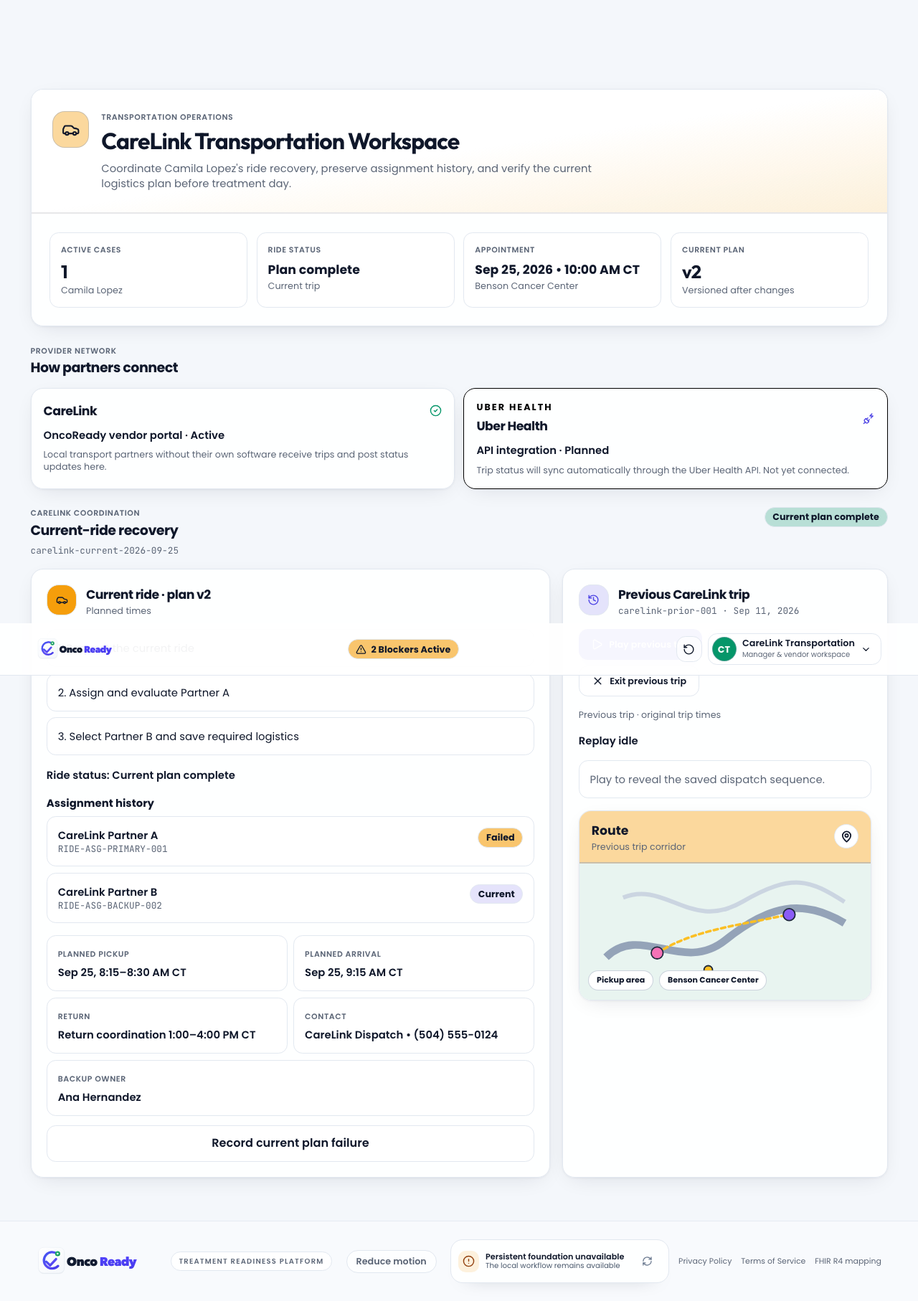
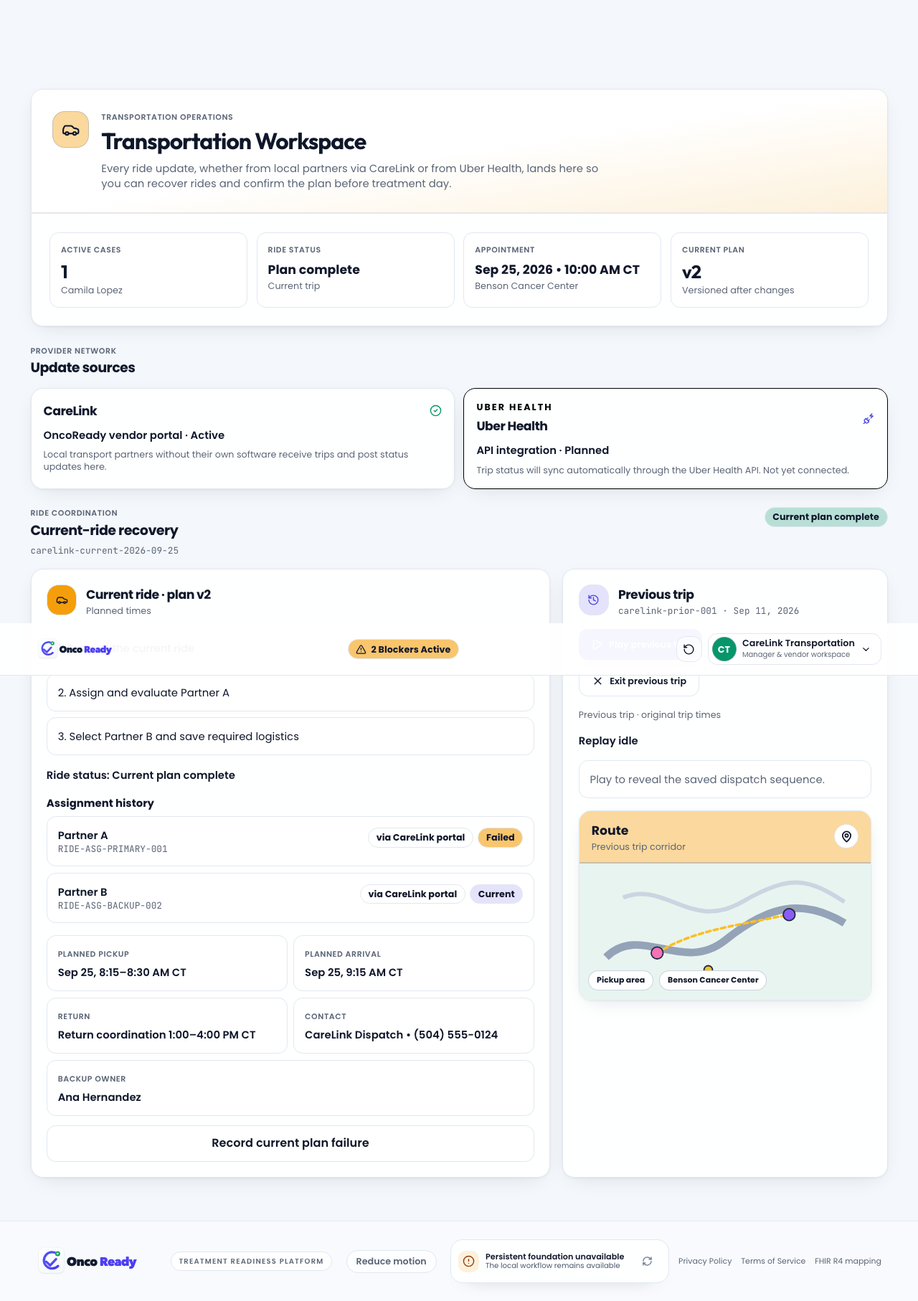
feat(transport): make Transportation Workspace vendor-neutral
Rename the page to "Transportation Workspace" and present it as the
navigator's hub for ride updates from every source. CareLink now appears
only as the update channel (assign buttons, "via CareLink portal" tags,
"Update sources"), with generic ride coordination labels elsewhere.
Update tests, screenshots and POLISH-001.

diff --git a/frontend/tests/e2e.spec.ts b/frontend/tests/e2e.spec.ts
@@ -197,20 +197,20 @@ test.describe('OncoReady UI-001 product experience', () => {
     await page.getByLabel('Password').fill('1234');
     await page.getByRole('button', { name: 'Sign in', exact: true }).last().click();
 
-    await expect(page.getByRole('heading', { name: 'CareLink Transportation Workspace' })).toBeVisible();
+    await expect(page.getByRole('heading', { name: 'Transportation Workspace' })).toBeVisible();
     await expect(page.getByRole('heading', { name: 'CareLink', exact: true })).toBeVisible();
     await expect(page.getByRole('heading', { name: 'Uber Health', exact: true })).toBeVisible();
     await expect(page.getByText('API integration · Planned')).toBeVisible();
     await expect(page.getByRole('img', { name: 'Uber Health wordmark' })).toBeVisible();
 
     await page.getByRole('button', { name: /Request ride/i }).click();
-    await page.getByRole('button', { name: /Assign CareLink Partner A/i }).click();
+    await page.getByRole('button', { name: /Assign Partner A · via CareLink/i }).click();
     await page.getByRole('button', { name: /Record primary unavailable/i }).click();
-    await page.getByRole('button', { name: /Select CareLink Partner B/i }).click();
+    await page.getByRole('button', { name: /Select Partner B · via CareLink/i }).click();
     await page.getByRole('button', { name: /Save recovered logistics/i }).click();
 
-    await expect(page.getByText('CareLink Partner A')).toBeVisible();
-    await expect(page.getByText('CareLink Partner B')).toBeVisible();
+    await expect(page.getByText('Partner A', { exact: true })).toBeVisible();
+    await expect(page.getByText('Partner B', { exact: true })).toBeVisible();
     await expect(page.getByText(/Current ride · plan v2/i)).toBeVisible();
     await expect(page.getByText(/Return coordination 1:00–4:00 PM CT/i)).toBeVisible();
     expect((await page.locator('body').innerText()).toLowerCase()).not.toContain('not feeling well');
@@ -219,7 +219,7 @@ test.describe('OncoReady UI-001 product experience', () => {
 
     await page.screenshot({ path: 'artifacts/RIDE-001-transport-desktop.png', fullPage: true });
     await page.setViewportSize({ width: 375, height: 812 });
-    await expect(page.getByRole('heading', { name: 'CareLink Transportation Workspace' })).toBeVisible();
+    await expect(page.getByRole('heading', { name: 'Transportation Workspace' })).toBeVisible();
     expect(await page.evaluate(() => document.documentElement.scrollWidth <= document.documentElement.clientWidth + 1)).toBe(true);
     await page.screenshot({ path: 'artifacts/RIDE-001-transport-mobile.png', fullPage: true });
   });
@@ -262,9 +262,9 @@ test.describe('OncoReady UI-001 product experience', () => {
     await page.getByRole('button', { name: 'Exceptions', exact: true }).click();
     await page.getByRole('button', { name: /Open Case Workspace/i }).click();
     await page.getByRole('button', { name: /Request ride/i }).click();
-    await page.getByRole('button', { name: /Assign CareLink Partner A/i }).click();
+    await page.getByRole('button', { name: /Assign Partner A · via CareLink/i }).click();
     await page.getByRole('button', { name: /Record primary unavailable/i }).click();
-    await page.getByRole('button', { name: /Select CareLink Partner B/i }).click();
+    await page.getByRole('button', { name: /Select Partner B · via CareLink/i }).click();
     await page.getByRole('button', { name: /Save recovered logistics/i }).click();
 
     await page.getByRole('button', { name: /Marcus Vance, MSW/i }).click();
@@ -397,9 +397,9 @@ test('presenter rehearsal follows the prepared story without live delivery', asy
   await page.getByRole('button', { name: 'Exit previous trip' }).click();
 
   await page.getByRole('button', { name: /Request ride/i }).click();
-  await page.getByRole('button', { name: /Assign CareLink Partner A/i }).click();
+  await page.getByRole('button', { name: /Assign Partner A · via CareLink/i }).click();
   await page.getByRole('button', { name: /Record primary unavailable/i }).click();
-  await page.getByRole('button', { name: /Select CareLink Partner B/i }).click();
+  await page.getByRole('button', { name: /Select Partner B · via CareLink/i }).click();
   await page.getByRole('button', { name: /Save recovered logistics/i }).click();
   await page.getByRole('button', { name: /Marcus Vance, MSW/i }).click();
   await page.getByText(/Caregiver Portal \(Ana Hernandez\)/i).click();

diff --git a/frontend/src/components/StaffCaseWorkspace.tsx b/frontend/src/components/StaffCaseWorkspace.tsx
@@ -121,7 +121,7 @@ export const StaffCaseWorkspace: React.FC<Props> = ({ state, workspaceRole, onBa
       <div className="space-y-5"><section className="card-sticker p-5 sm:p-6 space-y-4"><div><p className="label-caps text-muted-fg mb-1">Care plan</p><h2 className="font-heading font-bold flex items-center gap-2"><FlaskConical className="w-4 h-4 text-accent" />Pre-infusion diagnostic labs</h2></div><div className="overflow-x-auto"><table className="w-full text-left text-sm"><thead><tr className="border-b-2 border-ink/10">{['Test name','Result','Reference range','Status','Collection'].map((h) => <th key={h} className="py-2.5 label-caps text-muted-fg">{h}</th>)}</tr></thead><tbody className="divide-y divide-ink/10">{state.labs.map((lab) => <tr key={lab.name}><td className="py-3 font-heading font-bold">{lab.name}</td><td className="py-3 font-mono">{lab.value} {lab.unit}</td><td className="py-3 text-muted-fg font-mono text-xs">{lab.referenceRange}</td><td className="py-3"><span className={`chip ${lab.status === 'NORMAL' ? 'chip-mint' : 'chip-sun'}`}>{lab.status}</span></td><td className="py-3 text-xs text-muted-fg">{lab.collectedAt}</td></tr>)}</tbody></table></div></section><section className="card-sticker p-5 sm:p-6 space-y-4"><p className="label-caps text-muted-fg">{hasCapturedVitals ? 'OncoReady care plan \u00b7 Hospital Epic Sandbox' : 'OncoReady care plan'}</p><h2 className="font-heading font-bold flex items-center gap-2"><HeartPulse className="w-4 h-4 text-pop" />Vital signs &amp; clinical monitoring</h2><div className="grid grid-cols-1 sm:grid-cols-3 gap-3">{mergedVitals.map((vital) => <div key={vital.key} className="metric-tile"><div className="label-caps text-muted-fg">{vital.name}</div><div className="font-display text-xl font-extrabold mt-1">{vital.value}</div><div className="text-[11px] text-muted-fg">{vital.collectedAt ? formatEpicSourceDate(vital.collectedAt) ?? vital.collectedAt : 'Collection time not recorded'}</div>{vital.source === 'EPIC_SANDBOX' ? <span className="chip mt-2 inline-block">Epic Sandbox</span> : null}</div>)}</div>{mergedVitals.length === 0 ? <p className="text-sm text-muted-fg">No vital signs recorded.</p> : null}</section></div>
     ) :
       !clinical || !transport ? <section className="card-sticker p-6 text-center space-y-3"><AlertTriangle className="w-6 h-6 mx-auto text-accent" /><h2 className="font-heading font-bold">Patient reply has not opened work yet</h2><p className="text-sm text-muted-fg">Clinical and transportation work opens when Camila’s readiness reply arrives.</p></section> :
-      <div className="space-y-3"><p className="label-caps text-muted-fg">{workspaceRole === 'CARE_NAVIGATOR' ? 'CareLink coordination workflow' : 'Clinical readiness workflow'}</p><div className={workspaceRole === 'CARE_TEAM' ? 'grid grid-cols-1 lg:grid-cols-2 gap-5' : 'space-y-5'}>
+      <div className="space-y-3"><p className="label-caps text-muted-fg">{workspaceRole === 'CARE_NAVIGATOR' ? 'Transportation coordination workflow' : 'Clinical readiness workflow'}</p><div className={workspaceRole === 'CARE_TEAM' ? 'grid grid-cols-1 lg:grid-cols-2 gap-5' : 'space-y-5'}>
         {workspaceRole === 'CARE_TEAM' && <section className={`card-sticker p-5 space-y-4 ${clinicalDone ? 'bg-mint/10' : ''}`}>
           <div className="flex items-start justify-between gap-3"><div className="flex gap-2"><span className="icon-bubble w-10 h-10 bg-accent text-white"><Stethoscope className="w-4 h-4" /></span><div><h2 className="font-heading font-bold">Clinical contact</h2><p className="text-xs text-muted-fg">{clinical.id}</p></div></div><span className={`chip ${clinicalDone ? 'chip-mint' : 'chip-sun'}`}>{clinicalDone ? 'Human disposition recorded' : ownershipAccepted ? 'Ownership accepted' : 'Contact required'}</span></div>
           <TaskMeta owner={clinical.owner.name} next={clinical.nextAction} due={clinical.dueTime} waiting={clinical.waitingReason} />

diff --git a/frontend/src/components/CareLinkRidePanel.tsx b/frontend/src/components/CareLinkRidePanel.tsx
@@ -60,7 +60,7 @@ export const CareLinkRidePanel: React.FC<CareLinkRidePanelProps> = ({
     <section className="space-y-4" aria-labelledby="carelink-recovery-title">
       <div className="flex flex-wrap items-start justify-between gap-3">
         <div>
-          <p className="label-caps text-muted-fg">CareLink coordination</p>
+          <p className="label-caps text-muted-fg">Ride coordination</p>
           <h2 id="carelink-recovery-title" className="font-heading font-bold text-lg">Current-ride recovery</h2>
           <p className="text-xs text-muted-fg font-mono mt-1">{state.ride.currentTripId}</p>
         </div>
@@ -88,11 +88,11 @@ export const CareLinkRidePanel: React.FC<CareLinkRidePanelProps> = ({
           </div>
 
           {current === 'OPEN' && <button type="button" className="btn-candy w-full" onClick={() => onAction({ type: 'REQUEST_CURRENT_RIDE' })}>Request ride</button>}
-          {current === 'REQUESTED' && <button type="button" className="btn-candy w-full" onClick={() => onAction({ type: 'ASSIGN_PRIMARY_RIDE' })}>Assign CareLink Partner A</button>}
+          {current === 'REQUESTED' && <button type="button" className="btn-candy w-full" onClick={() => onAction({ type: 'ASSIGN_PRIMARY_RIDE' })}>Assign Partner A · via CareLink</button>}
           {current === 'PRIMARY_ASSIGNED' && <button type="button" className="btn-candy w-full" onClick={() => onAction({ type: 'FAIL_PRIMARY_RIDE' })}>Record primary unavailable</button>}
           {current === 'PRIMARY_FAILED' && (
             <div className="grid sm:grid-cols-2 gap-2">
-              <button type="button" className="btn-candy" onClick={() => onAction({ type: 'ASSIGN_BACKUP_RIDE' })}>Select CareLink Partner B</button>
+              <button type="button" className="btn-candy" onClick={() => onAction({ type: 'ASSIGN_BACKUP_RIDE' })}>Select Partner B · via CareLink</button>
               <button type="button" className="btn-ghost" onClick={() => onAction({ type: 'MARK_NO_RIDE_OPTION' })}>No option available</button>
             </div>
           )}
@@ -146,7 +146,10 @@ export const CareLinkRidePanel: React.FC<CareLinkRidePanelProps> = ({
                 {state.ride.assignments.map((assignment) => (
                   <li key={assignment.id} className="metric-tile text-sm flex flex-wrap items-start justify-between gap-2">
                     <div><div className="font-semibold">{assignment.providerName}</div><div className="font-mono text-xs text-muted-fg">{assignment.id}</div></div>
-                    <span className={`chip ${assignment.status === 'CURRENT' ? 'chip-accent' : 'chip-sun'}`}>{assignment.status === 'CURRENT' ? 'Current' : 'Failed'}</span>
+                    <div className="flex flex-wrap gap-1.5">
+                      <span className="chip">via CareLink portal</span>
+                      <span className={`chip ${assignment.status === 'CURRENT' ? 'chip-accent' : 'chip-sun'}`}>{assignment.status === 'CURRENT' ? 'Current' : 'Failed'}</span>
+                    </div>
                   </li>
                 ))}
               </ul>
@@ -171,7 +174,7 @@ export const CareLinkRidePanel: React.FC<CareLinkRidePanelProps> = ({
           <div className="flex items-start gap-3">
             <span className="icon-bubble w-10 h-10 bg-accent/15 text-accent shrink-0"><History className="w-4 h-4" aria-hidden="true" /></span>
             <div>
-              <h3 id="historical-replay-title" className="font-heading font-bold">Previous CareLink trip</h3>
+              <h3 id="historical-replay-title" className="font-heading font-bold">Previous trip</h3>
               <p className="font-mono text-xs text-muted-fg"><span>carelink-prior-001</span><span aria-hidden="true"> · </span><span>Sep 11, 2026</span></p>
             </div>
           </div>

diff --git a/frontend/src/state/workflowState.ts b/frontend/src/state/workflowState.ts
@@ -503,7 +503,7 @@ export function workflowReducer(state: WorkflowState, action: WorkflowAction): W
         ...state,
         ride: { ...state.ride, currentStatus: 'REQUESTED' },
         tasks: state.tasks.map((item) => item.type === 'TRANSPORTATION_NAVIGATION'
-          ? { ...item, nextAction: 'Assign CareLink Partner A', waitingReason: 'Provider assignment', transportDetails: { ...item.transportDetails!, dispatchStatus: 'DISPATCH_IN_PROGRESS' } }
+          ? { ...item, nextAction: 'Assign Partner A via CareLink', waitingReason: 'Provider assignment', transportDetails: { ...item.transportDetails!, dispatchStatus: 'DISPATCH_IN_PROGRESS' } }
           : item),
       };
       next = { ...next, auditEvents: addEvent(next, { id: 'EVT-RIDE-REQUESTED', timestamp: 'Sep 24, 2026 • 10:32 AM CT', actor: 'Marcus Vance, MSW', actorRole: 'NAVIGATOR', action: 'Ride requested', description: 'Current trip carelink-current-2026-09-25 opened.' }) };
@@ -513,7 +513,7 @@ export function workflowReducer(state: WorkflowState, action: WorkflowAction): W
       if (!isRoleMutationAllowed(state, 'CARE_NAVIGATOR') || state.ride.currentStatus !== 'REQUESTED') return state;
       const assignment: RideAssignment = {
         id: 'RIDE-ASG-PRIMARY-001',
-        providerName: 'CareLink Partner A',
+        providerName: 'Partner A',
         providerKind: 'FICTIONAL',
         status: 'CURRENT',
         assignedAt: 'Sep 24, 2026 • 10:34 AM CT',
@@ -524,7 +524,7 @@ export function workflowReducer(state: WorkflowState, action: WorkflowAction): W
         ...state,
         ride: { ...state.ride, currentStatus: 'PRIMARY_ASSIGNED', assignments: [...state.ride.assignments, assignment] },
         tasks: state.tasks.map((item) => item.type === 'TRANSPORTATION_NAVIGATION'
-          ? { ...item, nextAction: 'Monitor primary assignment', waitingReason: 'CareLink Partner A', transportDetails: { ...item.transportDetails!, dispatchStatus: 'DISPATCH_IN_PROGRESS', vehicleId: assignment.vehicleId, driverName: assignment.driverName } }
+          ? { ...item, nextAction: 'Monitor primary assignment', waitingReason: 'Partner A via CareLink', transportDetails: { ...item.transportDetails!, dispatchStatus: 'DISPATCH_IN_PROGRESS', vehicleId: assignment.vehicleId, driverName: assignment.driverName } }
           : item),
       };
       next = { ...next, auditEvents: addEvent(next, { id: 'EVT-RIDE-PRIMARY-ASSIGNED', timestamp: assignment.assignedAt, actor: 'Marcus Vance, MSW', actorRole: 'NAVIGATOR', action: 'Trip sent to Partner A via CareLink', description: 'Primary assignment RIDE-ASG-PRIMARY-001 is current.' }) };
@@ -537,7 +537,7 @@ export function workflowReducer(state: WorkflowState, action: WorkflowAction): W
       if (!isRoleMutationAllowed(state, 'CARE_NAVIGATOR') || state.ride.currentStatus !== 'PRIMARY_FAILED') return state;
       const assignment: RideAssignment = {
         id: 'RIDE-ASG-BACKUP-002',
-        providerName: 'CareLink Partner B',
+        providerName: 'Partner B',
         providerKind: 'FICTIONAL',
         status: 'CURRENT',
         assignedAt: 'Sep 24, 2026 • 10:49 AM CT',

diff --git a/frontend/tests/ride-ui.test.tsx b/frontend/tests/ride-ui.test.tsx
@@ -25,7 +25,7 @@ describe('RIDE-001 provider extensibility labels', () => {
   it('shows CareLink and a truthful non-connected Uber Health preview', () => {
     render(<TransportationHarness />);
 
-    expect(screen.getByRole('heading', { name: 'CareLink Transportation Workspace' })).toBeDefined();
+    expect(screen.getByRole('heading', { name: 'Transportation Workspace' })).toBeDefined();
     expect(screen.getByRole('heading', { name: 'CareLink' })).toBeDefined();
     expect(screen.getByText('OncoReady vendor portal · Active')).toBeDefined();
     expect(screen.getByRole('heading', { name: 'Uber Health' })).toBeDefined();
@@ -38,13 +38,13 @@ describe('RIDE-001 provider extensibility labels', () => {
     render(<RideHarness />);
 
     fireEvent.click(screen.getByRole('button', { name: 'Request ride' }));
-    fireEvent.click(screen.getByRole('button', { name: 'Assign CareLink Partner A' }));
+    fireEvent.click(screen.getByRole('button', { name: 'Assign Partner A · via CareLink' }));
     fireEvent.click(screen.getByRole('button', { name: 'Record primary unavailable' }));
 
-    expect(screen.getByText('CareLink Partner A')).toBeDefined();
+    expect(screen.getByText('Partner A')).toBeDefined();
     expect(screen.getByText('Failed')).toBeDefined();
 
-    fireEvent.click(screen.getByRole('button', { name: 'Select CareLink Partner B' }));
+    fireEvent.click(screen.getByRole('button', { name: 'Select Partner B · via CareLink' }));
     const contact = screen.getByLabelText('Logistics contact');
     fireEvent.change(contact, { target: { value: '' } });
 
@@ -56,7 +56,7 @@ describe('RIDE-001 provider extensibility labels', () => {
     fireEvent.click(save);
 
     expect(screen.getByText('Current plan complete')).toBeDefined();
-    expect(screen.getByText(/CareLink Partner B/)).toBeDefined();
+    expect(screen.getAllByText(/Partner B/)[0]).toBeDefined();
     expect(screen.getByText(/Sep 25, 8:15–8:30 AM CT/)).toBeDefined();
     expect(screen.getByText(/Return coordination 1:00–4:00 PM CT/)).toBeDefined();
   });

diff --git a/frontend/src/components/TransportationWorkspace.tsx b/frontend/src/components/TransportationWorkspace.tsx
@@ -40,9 +40,9 @@ export const TransportationWorkspace: React.FC<TransportationWorkspaceProps> = (
               </span>
               <div>
                 <p className="label-caps text-muted-fg">Transportation operations</p>
-                <Title id="transport-dashboard-title" className="font-display text-3xl font-extrabold mt-1">CareLink Transportation Workspace</Title>
+                <Title id="transport-dashboard-title" className="font-display text-3xl font-extrabold mt-1">Transportation Workspace</Title>
                 <p className="text-sm text-muted-fg mt-2 max-w-2xl">
-                  Coordinate Camila Lopez's ride recovery, preserve assignment history, and verify the current logistics plan before treatment day.
+                  Every ride update, whether from local partners via CareLink or from Uber Health, lands here so you can recover rides and confirm the plan before treatment day.
                 </p>
               </div>
             </div>
@@ -61,7 +61,7 @@ export const TransportationWorkspace: React.FC<TransportationWorkspaceProps> = (
         <div className="flex flex-wrap items-end justify-between gap-2">
           <div>
             <p className="label-caps text-muted-fg">Provider network</p>
-            <h2 id="provider-readiness-title" className="font-heading font-bold text-lg">How partners connect</h2>
+            <h2 id="provider-readiness-title" className="font-heading font-bold text-lg">Update sources</h2>
           </div>
         </div>
         <div className="grid sm:grid-cols-2 gap-3">

diff --git a/frontend/tests/access.test.tsx b/frontend/tests/access.test.tsx
@@ -45,17 +45,17 @@ describe('ACCESS-001 prepared workspace entry', () => {
     signIn('abcn@oncoready.me');
     expect(screen.getByText(/Care Navigator Workspace/i)).toBeDefined();
     fireEvent.click(screen.getByRole('button', { name: 'Transportation' }));
-    expect(screen.getByRole('heading', { name: /CareLink Transportation Workspace/i })).toBeDefined();
+    expect(screen.getByRole('heading', { name: /Transportation Workspace/i })).toBeDefined();
     expect(screen.getByText('OncoReady vendor portal · Active')).toBeDefined();
 
     fireEvent.click(screen.getByTitle(/Reset Workspace/i));
     signIn('abct@oncoready.me');
-    expect(screen.getByRole('heading', { name: /CareLink Transportation Workspace/i })).toBeDefined();
+    expect(screen.getByRole('heading', { name: /Transportation Workspace/i })).toBeDefined();
     expect(screen.getByRole('heading', { name: 'CareLink' })).toBeDefined();
     expect(screen.getByRole('heading', { name: 'Uber Health' })).toBeDefined();
     expect(screen.getByText('API integration · Planned')).toBeDefined();
     fireEvent.click(screen.getByRole('button', { name: /Request ride/i }));
-    expect(screen.getByRole('button', { name: /Assign CareLink Partner A/i })).toBeDefined();
+    expect(screen.getByRole('button', { name: /Assign Partner A · via CareLink/i })).toBeDefined();
   });
 
   it('preserves scenario progress across personas and reset restores the public start', () => {

diff --git a/frontend/src/components/Header.tsx b/frontend/src/components/Header.tsx
@@ -53,7 +53,7 @@ export const Header: React.FC<HeaderProps> = ({
       case 'CAREGIVER':
         return { name: state.caregiver.name, role: 'Caregiver Proxy', avatar: state.caregiver.avatarUrl, roleType: 'CAREGIVER' as const };
       case 'TRANSPORTATION':
-        return { name: 'CareLink Transportation', role: 'Manager & vendor workspace', avatar: '', roleType: 'NAVIGATOR' as const };
+        return { name: 'Transportation', role: 'Transportation coordination', avatar: '', roleType: 'NAVIGATOR' as const };
       default:
         return null;
     }
@@ -203,7 +203,7 @@ export const Header: React.FC<HeaderProps> = ({
                       <Avatar alt="Marcus Vance" size="xs" roleType="NAVIGATOR" />
                       <div>
                         <div>Care Navigator (Marcus Vance, MSW)</div>
-                        <div className="text-[10px] text-muted-fg font-normal">CareLink & Patient Coordination</div>
+                        <div className="text-[10px] text-muted-fg font-normal">Transportation & Patient Coordination</div>
                       </div>
                     </button>
                     <button onClick={() => { onSetPerspective('CARE_TEAM'); setIsDropdownOpen(false); }} className={`w-full px-3.5 py-2 flex items-center gap-3 text-left text-xs hover:bg-muted ${currentPerspective === 'CARE_TEAM' ? 'bg-accent/8 font-semibold' : ''}`}>

diff --git a/frontend/tests/ride.test.ts b/frontend/tests/ride.test.ts
@@ -51,8 +51,8 @@ describe('RIDE-001 current recovery and acknowledgment', () => {
     expect(state.ride.currentTripId).toBe('carelink-current-2026-09-25');
     expect(state.ride.currentStatus).toBe('RECOVERED');
     expect(state.ride.assignments.map(({ providerName, status }) => [providerName, status])).toEqual([
-      ['CareLink Partner A', 'FAILED'],
-      ['CareLink Partner B', 'CURRENT'],
+      ['Partner A', 'FAILED'],
+      ['Partner B', 'CURRENT'],
     ]);
     expect(getCurrentPlanVersion(state)).toBe(2);
     expect(isCurrentTransportPlanComplete(state)).toBe(true);
@@ -108,7 +108,7 @@ describe('RIDE-001 current recovery and acknowledgment', () => {
     expect(projection.seen?.actor).toBe('Ana Hernandez');
     expect(serialized).not.toContain(PREPARED_REPLY);
     expect(serialized).not.toContain(state.appointment.treatmentName);
-    expect(serialized).not.toContain('CareLink Partner A');
+    expect(serialized).not.toContain('Partner A');
   });
 });
 

diff --git a/frontend/tests/component.test.tsx b/frontend/tests/component.test.tsx
@@ -126,9 +126,9 @@ describe('OncoReady React UI & DOM Integration Tests', () => {
     fireEvent.click(screen.getByRole('button', { name: /Sarah Jenkins, RN/i }));
     fireEvent.click(screen.getByText(/Care Navigator \(Marcus Vance, MSW\)/i));
     fireEvent.click(screen.getByRole('button', { name: /Request ride/i }));
-    fireEvent.click(screen.getByRole('button', { name: /Assign CareLink Partner A/i }));
+    fireEvent.click(screen.getByRole('button', { name: /Assign Partner A · via CareLink/i }));
     fireEvent.click(screen.getByRole('button', { name: /Record primary unavailable/i }));
-    fireEvent.click(screen.getByRole('button', { name: /Select CareLink Partner B/i }));
+    fireEvent.click(screen.getByRole('button', { name: /Select Partner B · via CareLink/i }));
     fireEvent.click(screen.getByRole('button', { name: /Save recovered logistics/i }));
     expect(screen.getAllByText(/Current plan complete/i).length).toBeGreaterThan(0);
 

diff --git a/docs/features/POLISH-001.md b/docs/features/POLISH-001.md
@@ -12,8 +12,9 @@ Every workspace reads as a finished product. Demo-framing labels no longer under
 2. Epic surfaces read **Connected to Hospital Epic Sandbox** with `Epic FHIR R4 record · read-only`; captured times read "Retrieved"; missing values read "Not recorded".
 3. Remove the notebook, dataset, saved-result and data-dictionary links from Insights. The file names and contents describe demo/synthetic data; the files stay in the repository. The UI hides the artifact's "Synthetic data only." limitation and the `synthetic-` model-version prefix without editing the hash-bound artifact.
 4. Transportation positioning: CareLink is OncoReady's vendor portal for local transport partners without their own software (`OncoReady vendor portal · Active`); Uber Health is `API integration · Planned` and not yet connected. Vendor-originated ride events read as reported via CareLink (for example `Partner A reported unavailable via CareLink`).
-5. The Care Navigator reaches the CareLink Transportation workspace from the **Transportation** sidebar item, which replaces the static CareLink resources page. The separate Transportation entry is removed from the Switch Workspace dropdown; the direct Transportation sign-in still opens the standalone workspace.
-6. The staff shell no longer shows the internal note "Graph and audit context are embedded in the case workspace for this role."
+5. The Care Navigator reaches the Transportation Workspace from the **Transportation** sidebar item, which replaces the static CareLink resources page. The separate Transportation entry is removed from the Switch Workspace dropdown; the direct Transportation sign-in still opens the standalone workspace.
+6. The Transportation Workspace is vendor-neutral: it is the navigator's hub for ride updates from every source. CareLink appears only as the channel (`Assign Partner A · via CareLink`, a `via CareLink portal` tag on each assignment, `Update sources` cards); generic labels read `Ride coordination`, `Transportation coordination workflow` and `Previous trip`. Trip IDs and the CareLink Dispatch contact are unchanged because those trips do go through CareLink.
+7. The staff shell no longer shows the internal note "Graph and audit context are embedded in the case workspace for this role."
 
 ## Boundaries kept
 
